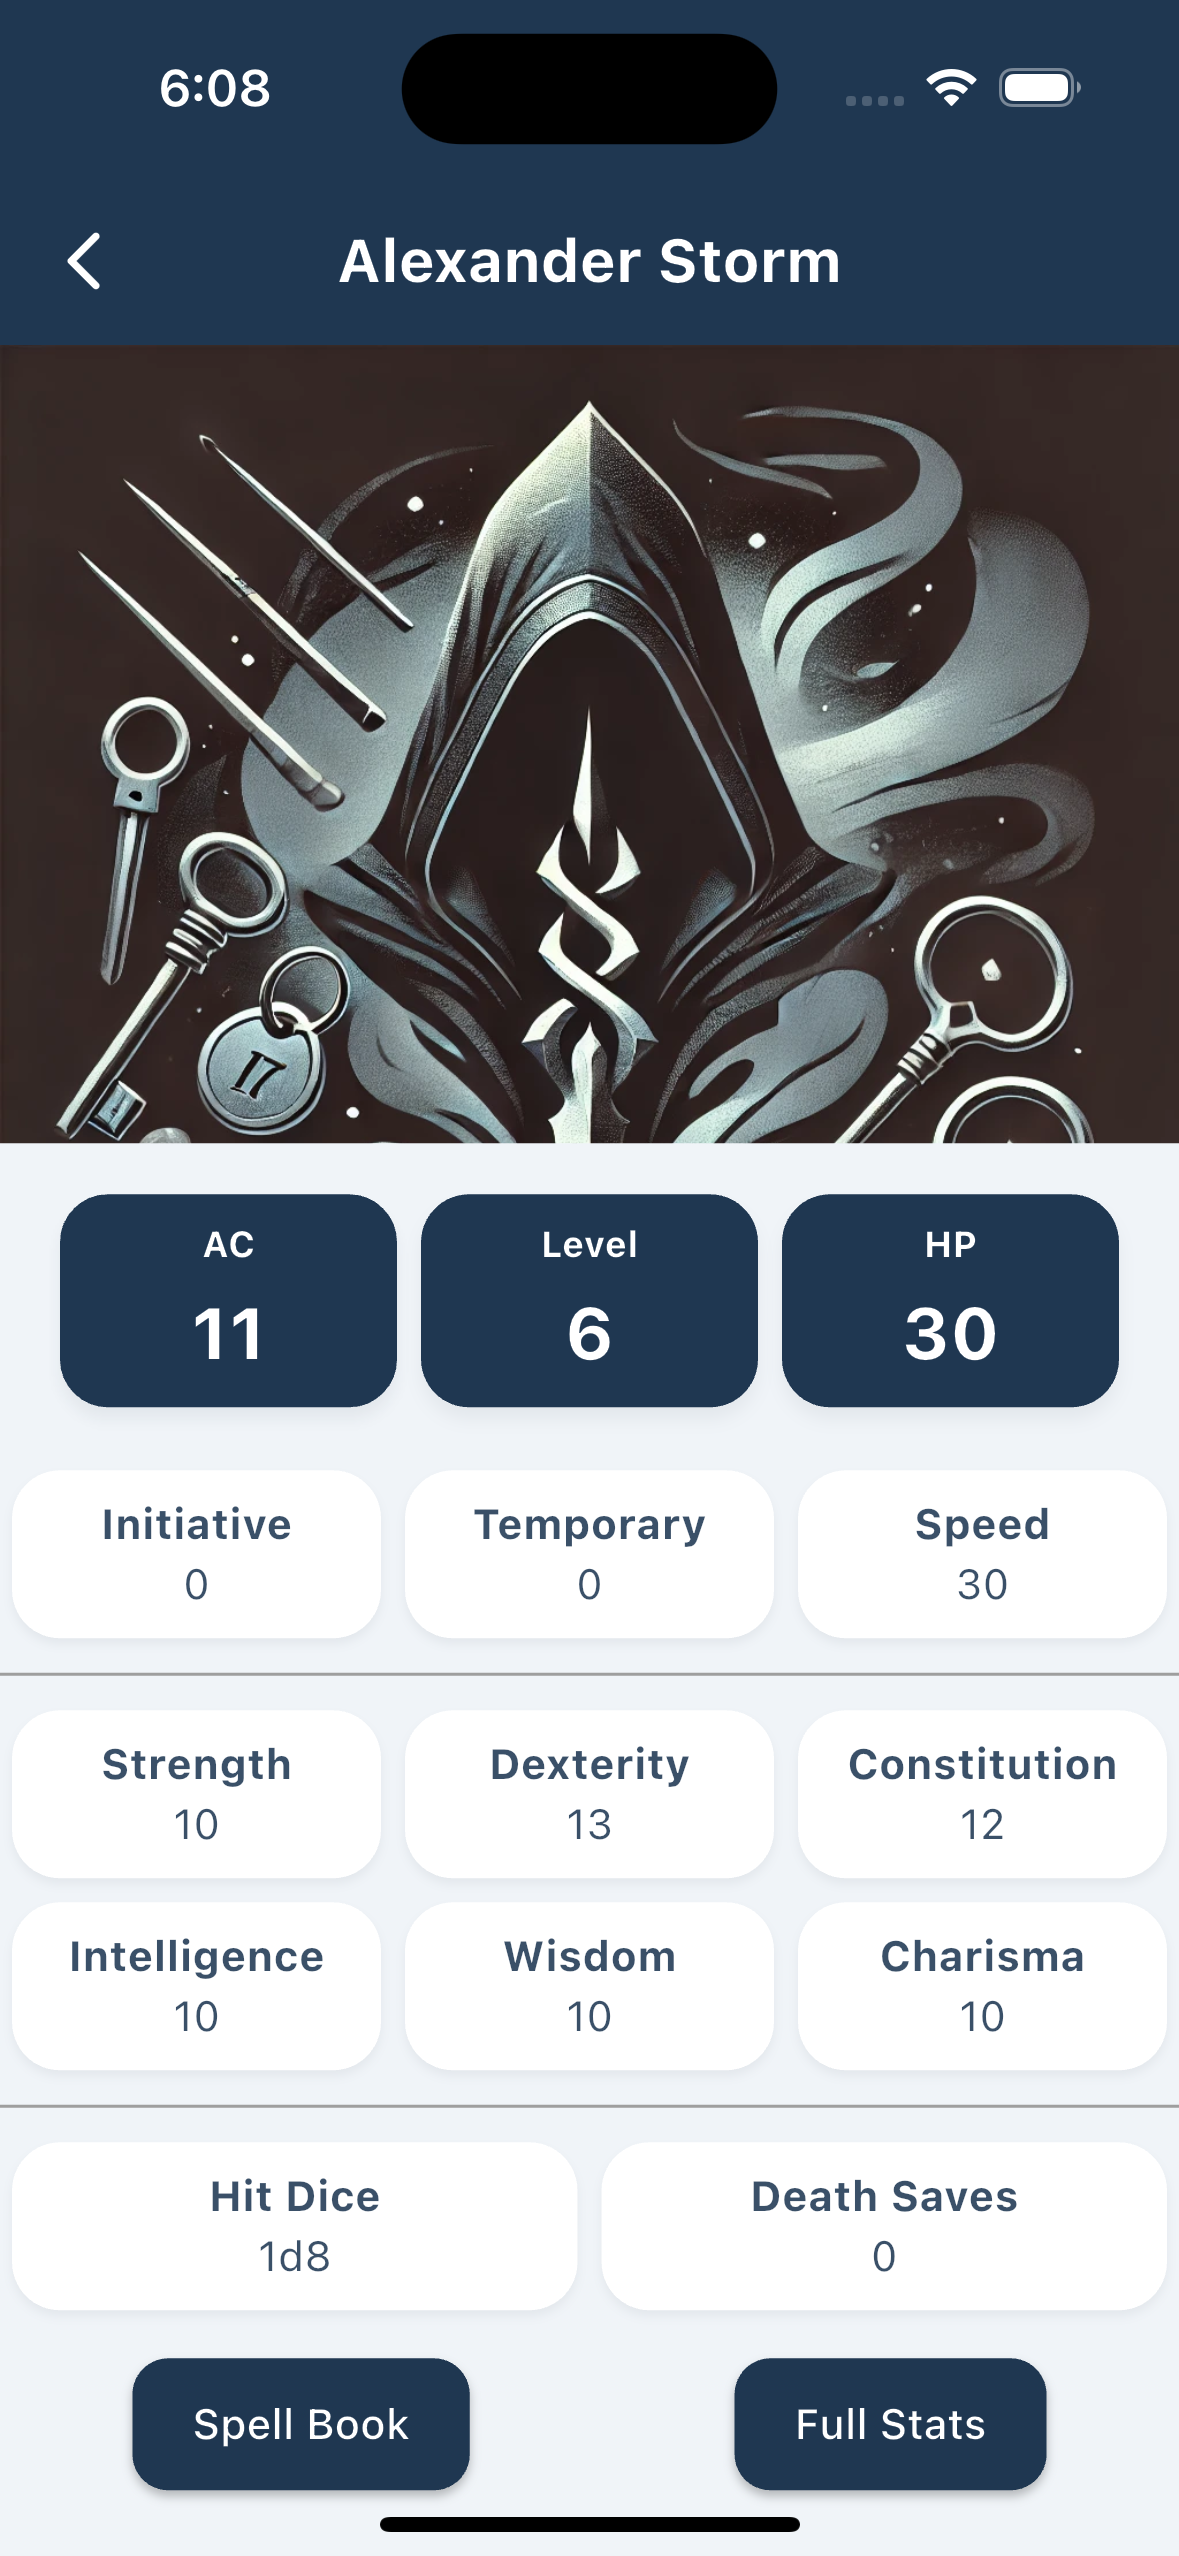
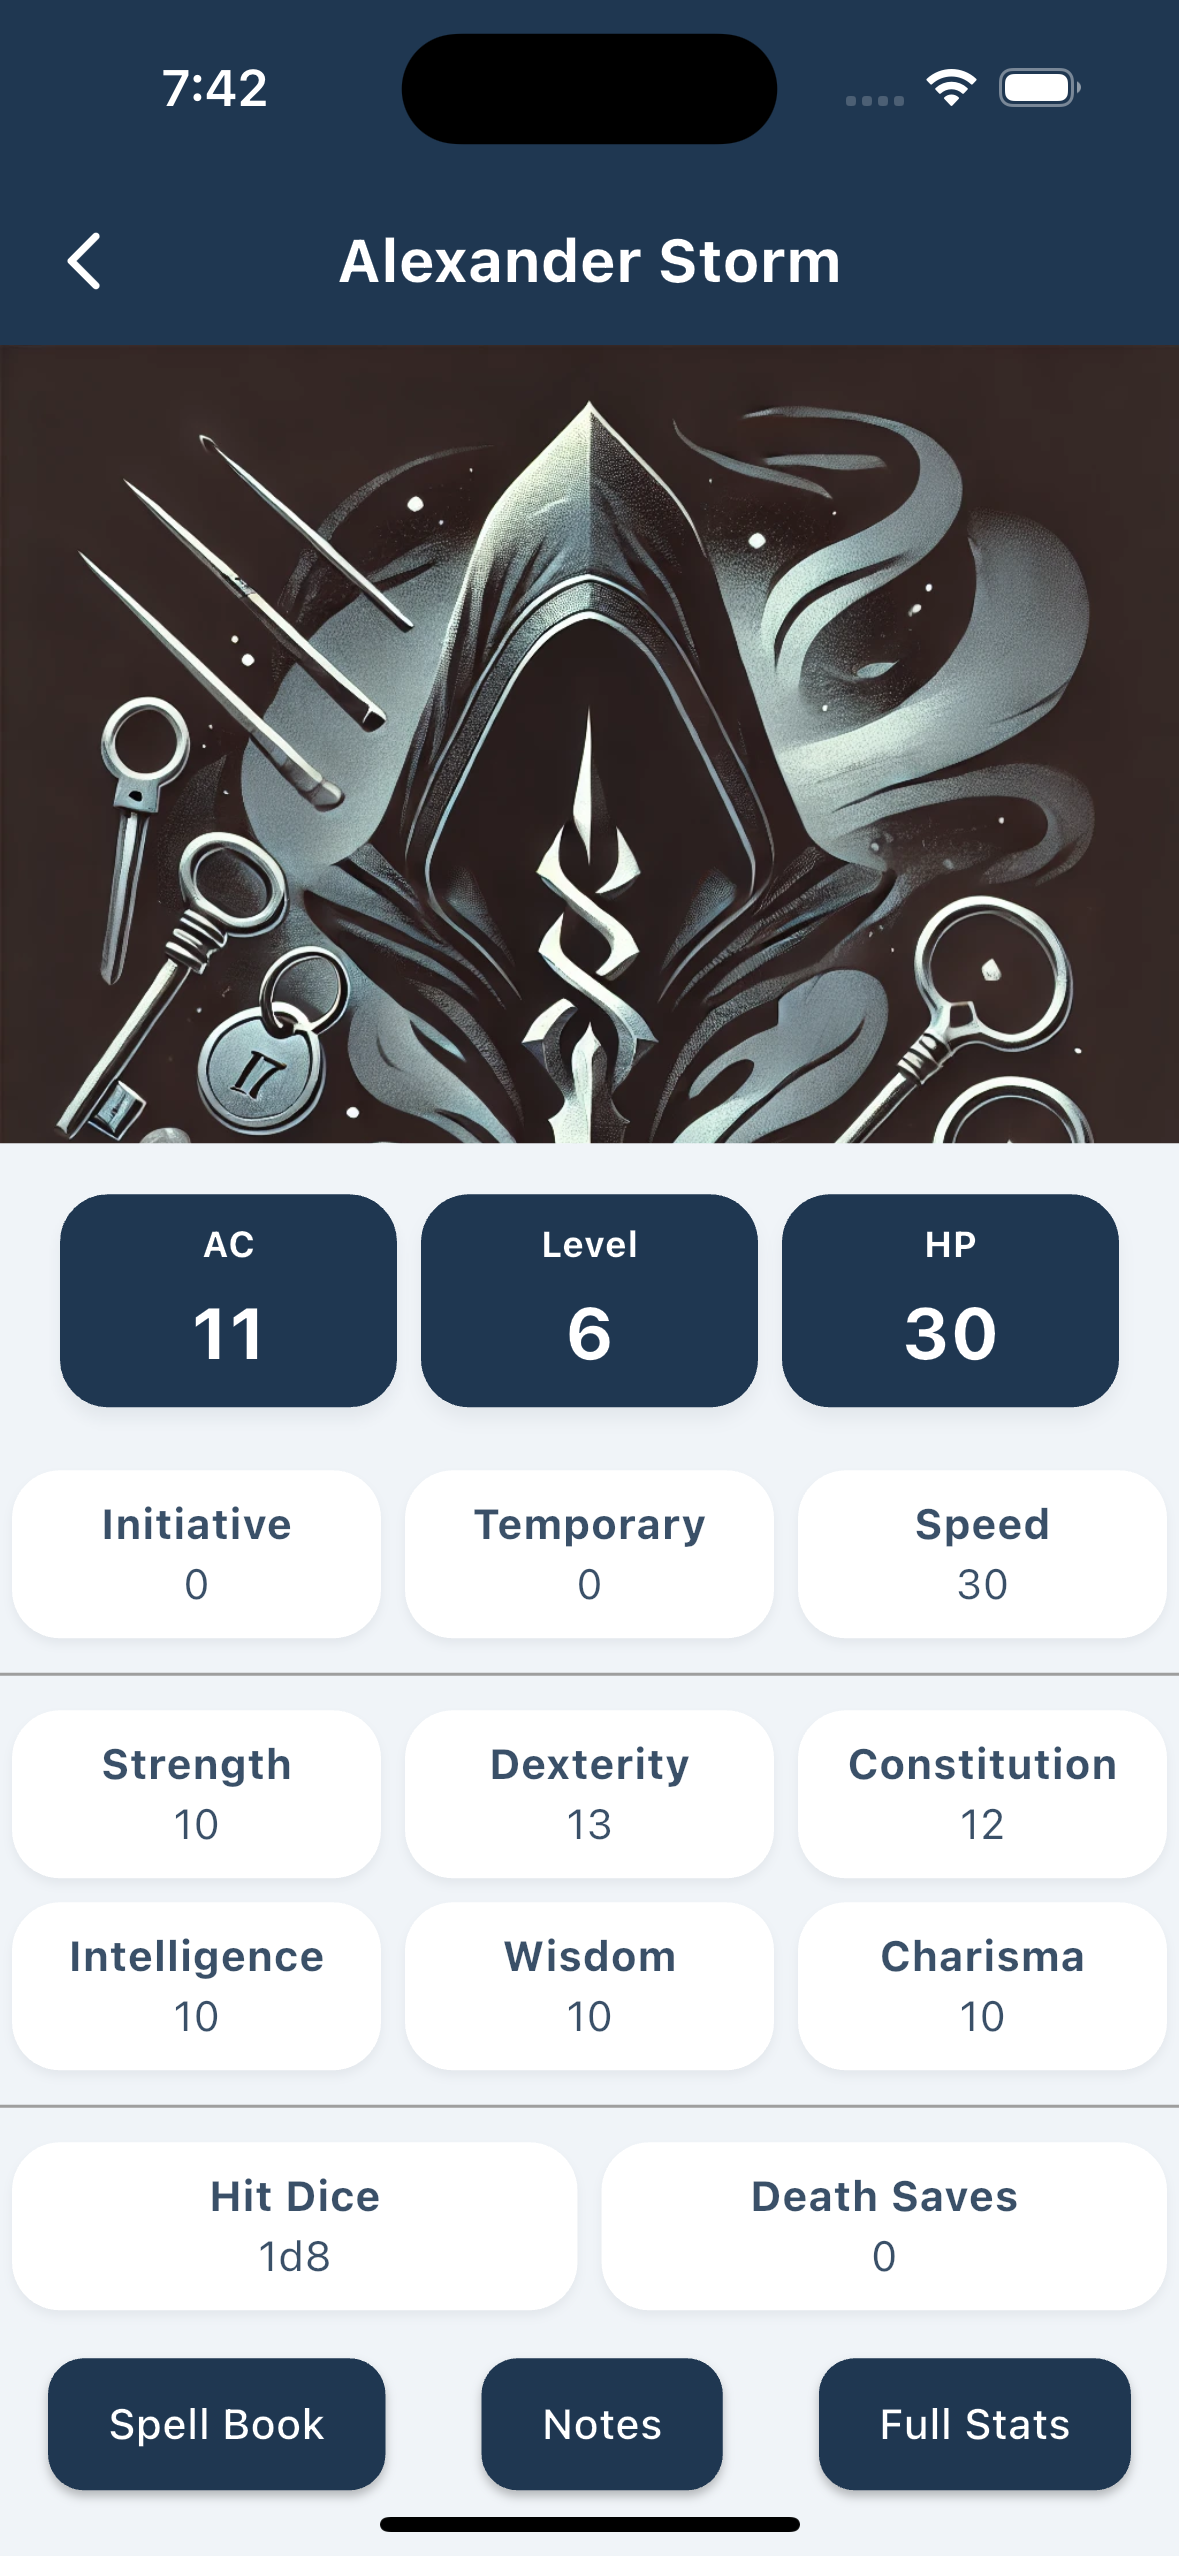
feat: add notes image to README and mark character notes functionality as complete

Changed region(s): [[0.0305, 0.8963, 0.9771, 0.989], [0.1221, 0.0309, 0.2137, 0.0618]]

diff --git a/README.md b/README.md
@@ -14,6 +14,7 @@ The goal is to provide an intentionally simple, user-friendly experience for pla
   <img src="readme/character.png" width="130" />
   <img src="readme/spell_search.png" width="130" />
   <img src="readme/spellbook.png" width="130" />
+  <img src="readme/notes.png" width="130" />
 </p>
 
 ### Key Features:
@@ -35,7 +36,7 @@ great 5E apps out there anyway!
 
 ## Short-Term Goals 🚀
 
-- [ ] Add character notes functionality
+- [x] Add character notes functionality
 - [ ] Implement custom race image uploads
 - [ ] Enable custom class image uploads
 - [ ] Expand spell list beyond default 5E spells
